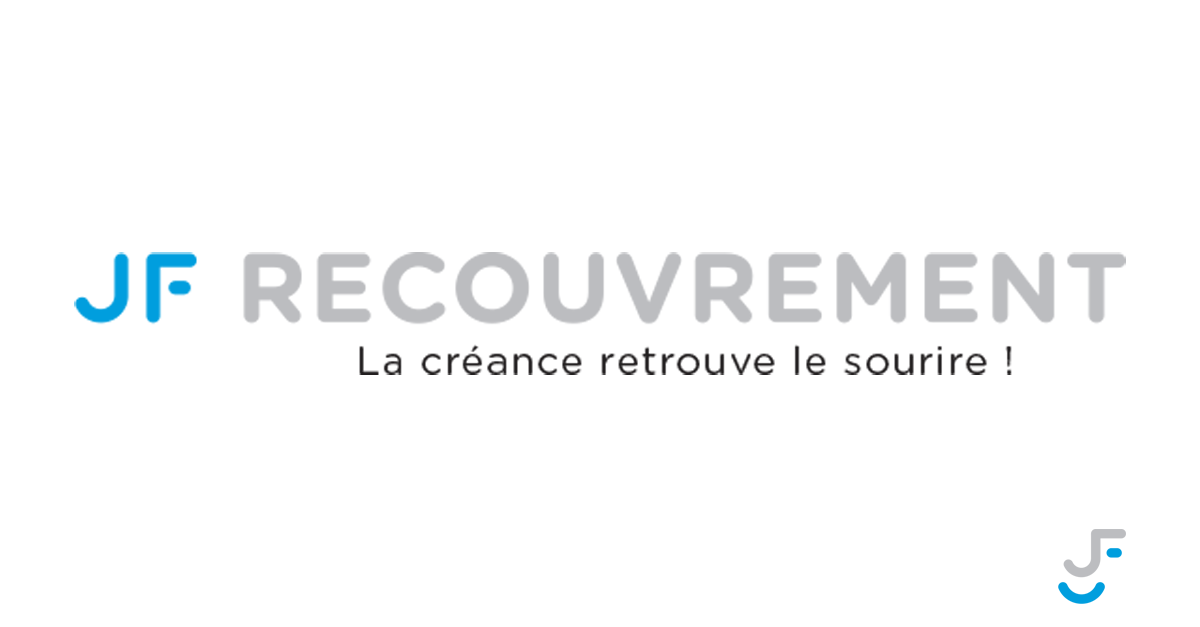
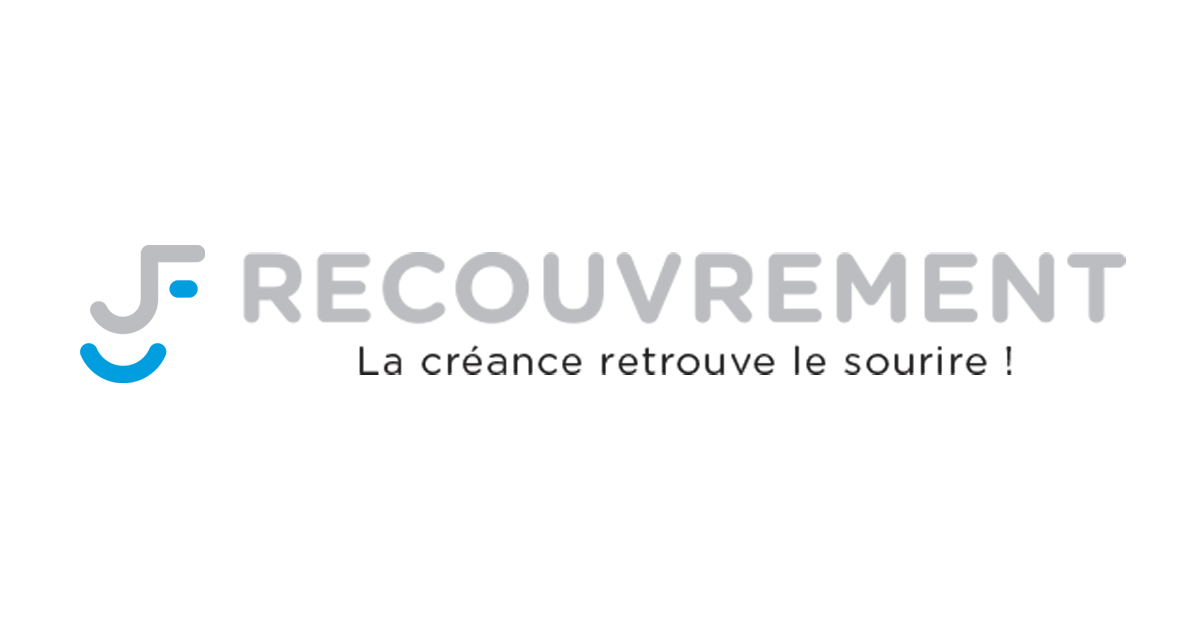
change social preview image + header picture

Changed region(s): [[0.0617, 0.3636, 0.185, 0.6364], [0.8633, 0.8485, 0.9558, 0.9697]]

diff --git a/src/components/Menu/index.js b/src/components/Menu/index.js
@@ -17,7 +17,9 @@ export function Menu() {
     return (
         <div className="text-black">
             <div className="flex items-center md:justify-center pr-4">
-                <Image src="/JF_Recouvrement_smile.png" width={481} height={200} quality={100}/>
+                <div className="w-96 py-6 px-4 md:px-0">
+                    <Image src="/JF_site_header.png" width={1046} height={138} quality={100}/>
+                </div>
                 <MenuButton className="ml-auto md:hidden" isOpen={isOpen} onClick={() => setIsOpen(!isOpen)}/>
             </div>
             <ul
